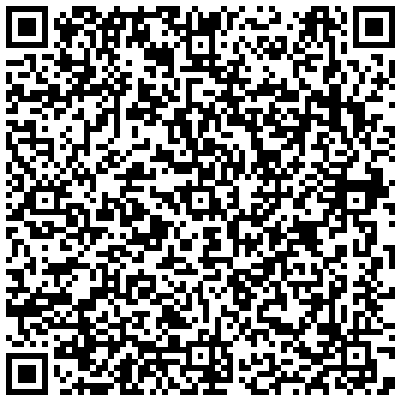
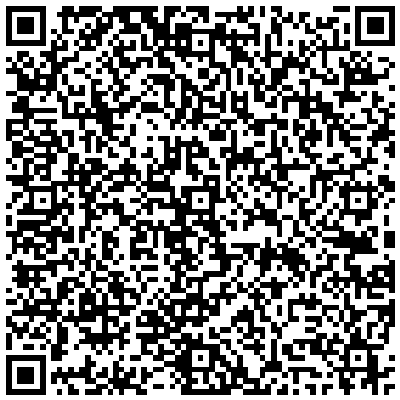
test: version no payload estatico

diff --git a/__tests__/buymeacoffee.test.ts b/__tests__/buymeacoffee.test.ts
@@ -2,12 +2,14 @@ import fs from 'fs'
 import { QRCodePayload } from '../src'
 import { resolve } from 'path'
 import { baseDir } from './config'
+import pkg from '../package.json'
 
 describe('Me pague um café', () => {
   const codePayload = new QRCodePayload()
   beforeAll(() => {
+    const v = `${pkg.version}`.split('.').join()
     codePayload.set({
-      txid: 'GITBUYMEACOFFEEAPIPIXV011',
+      txid: `GITBUYMEACOFFEEAPIPIXV${v}`,
       merchantCity: 'Fortaleza',
       merchantName: 'Leandro Sbrissa',
       pixKey: 'leandro.sbrissa@hotmail.com',
